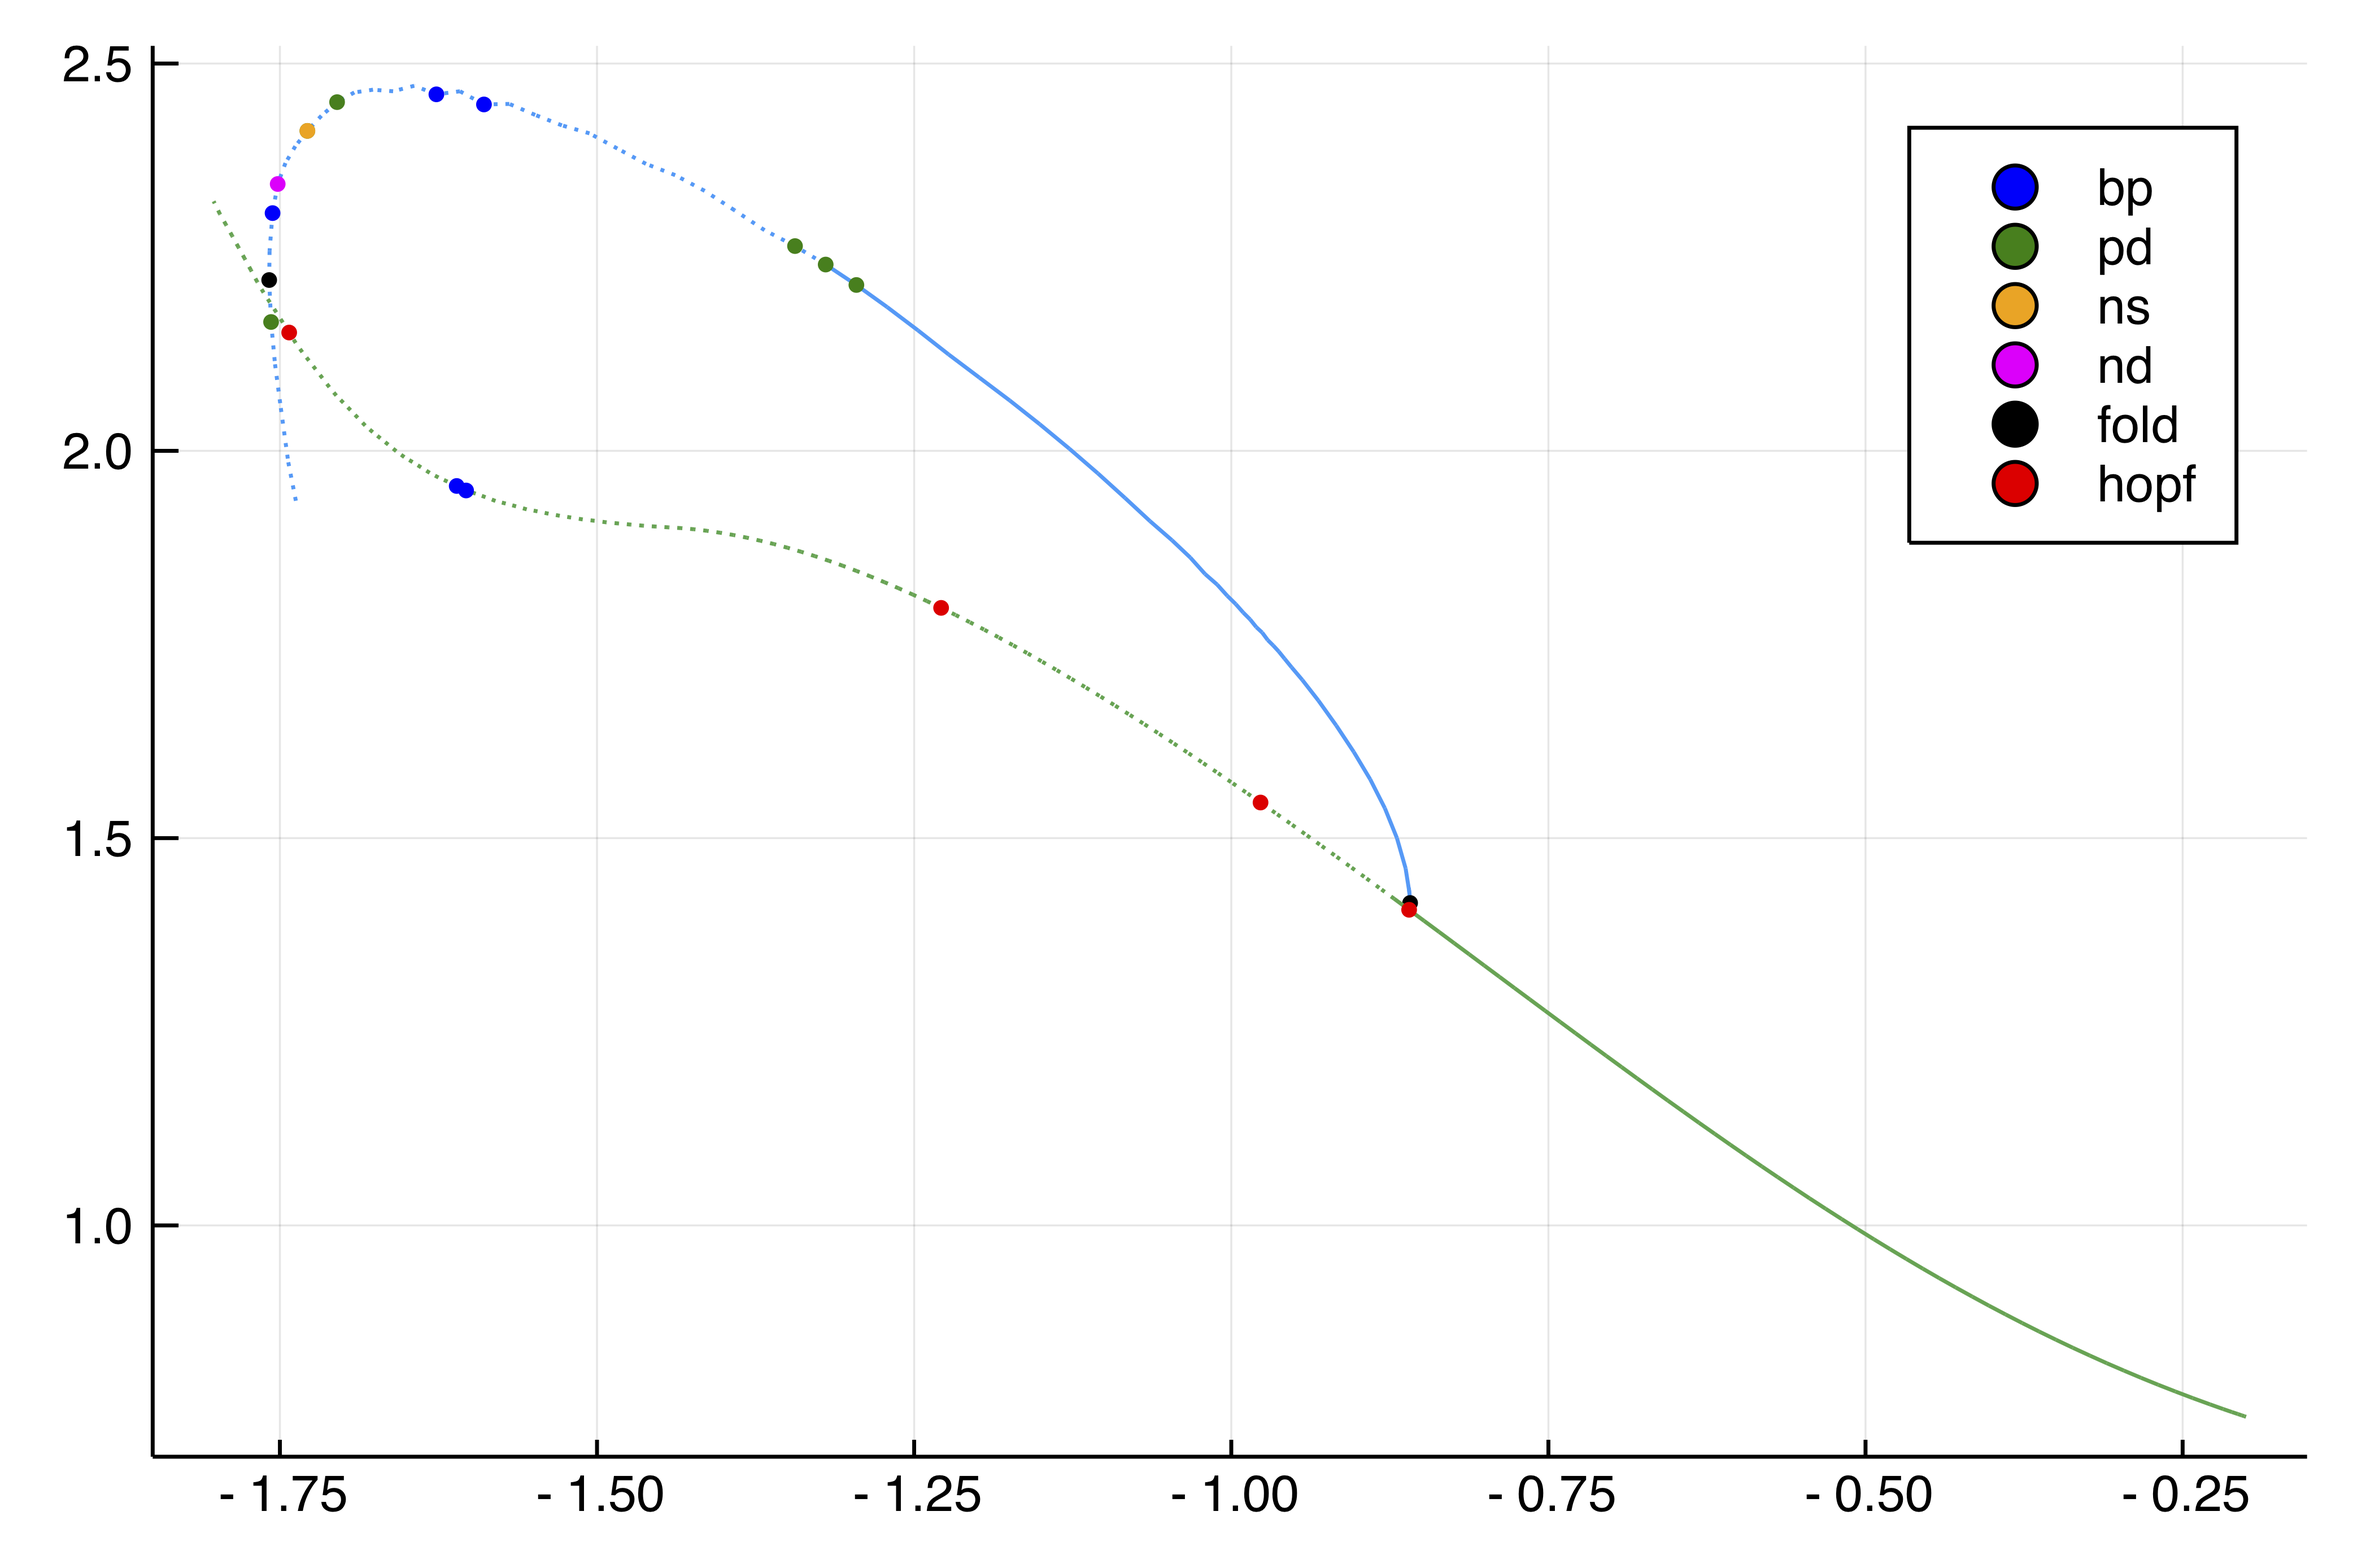
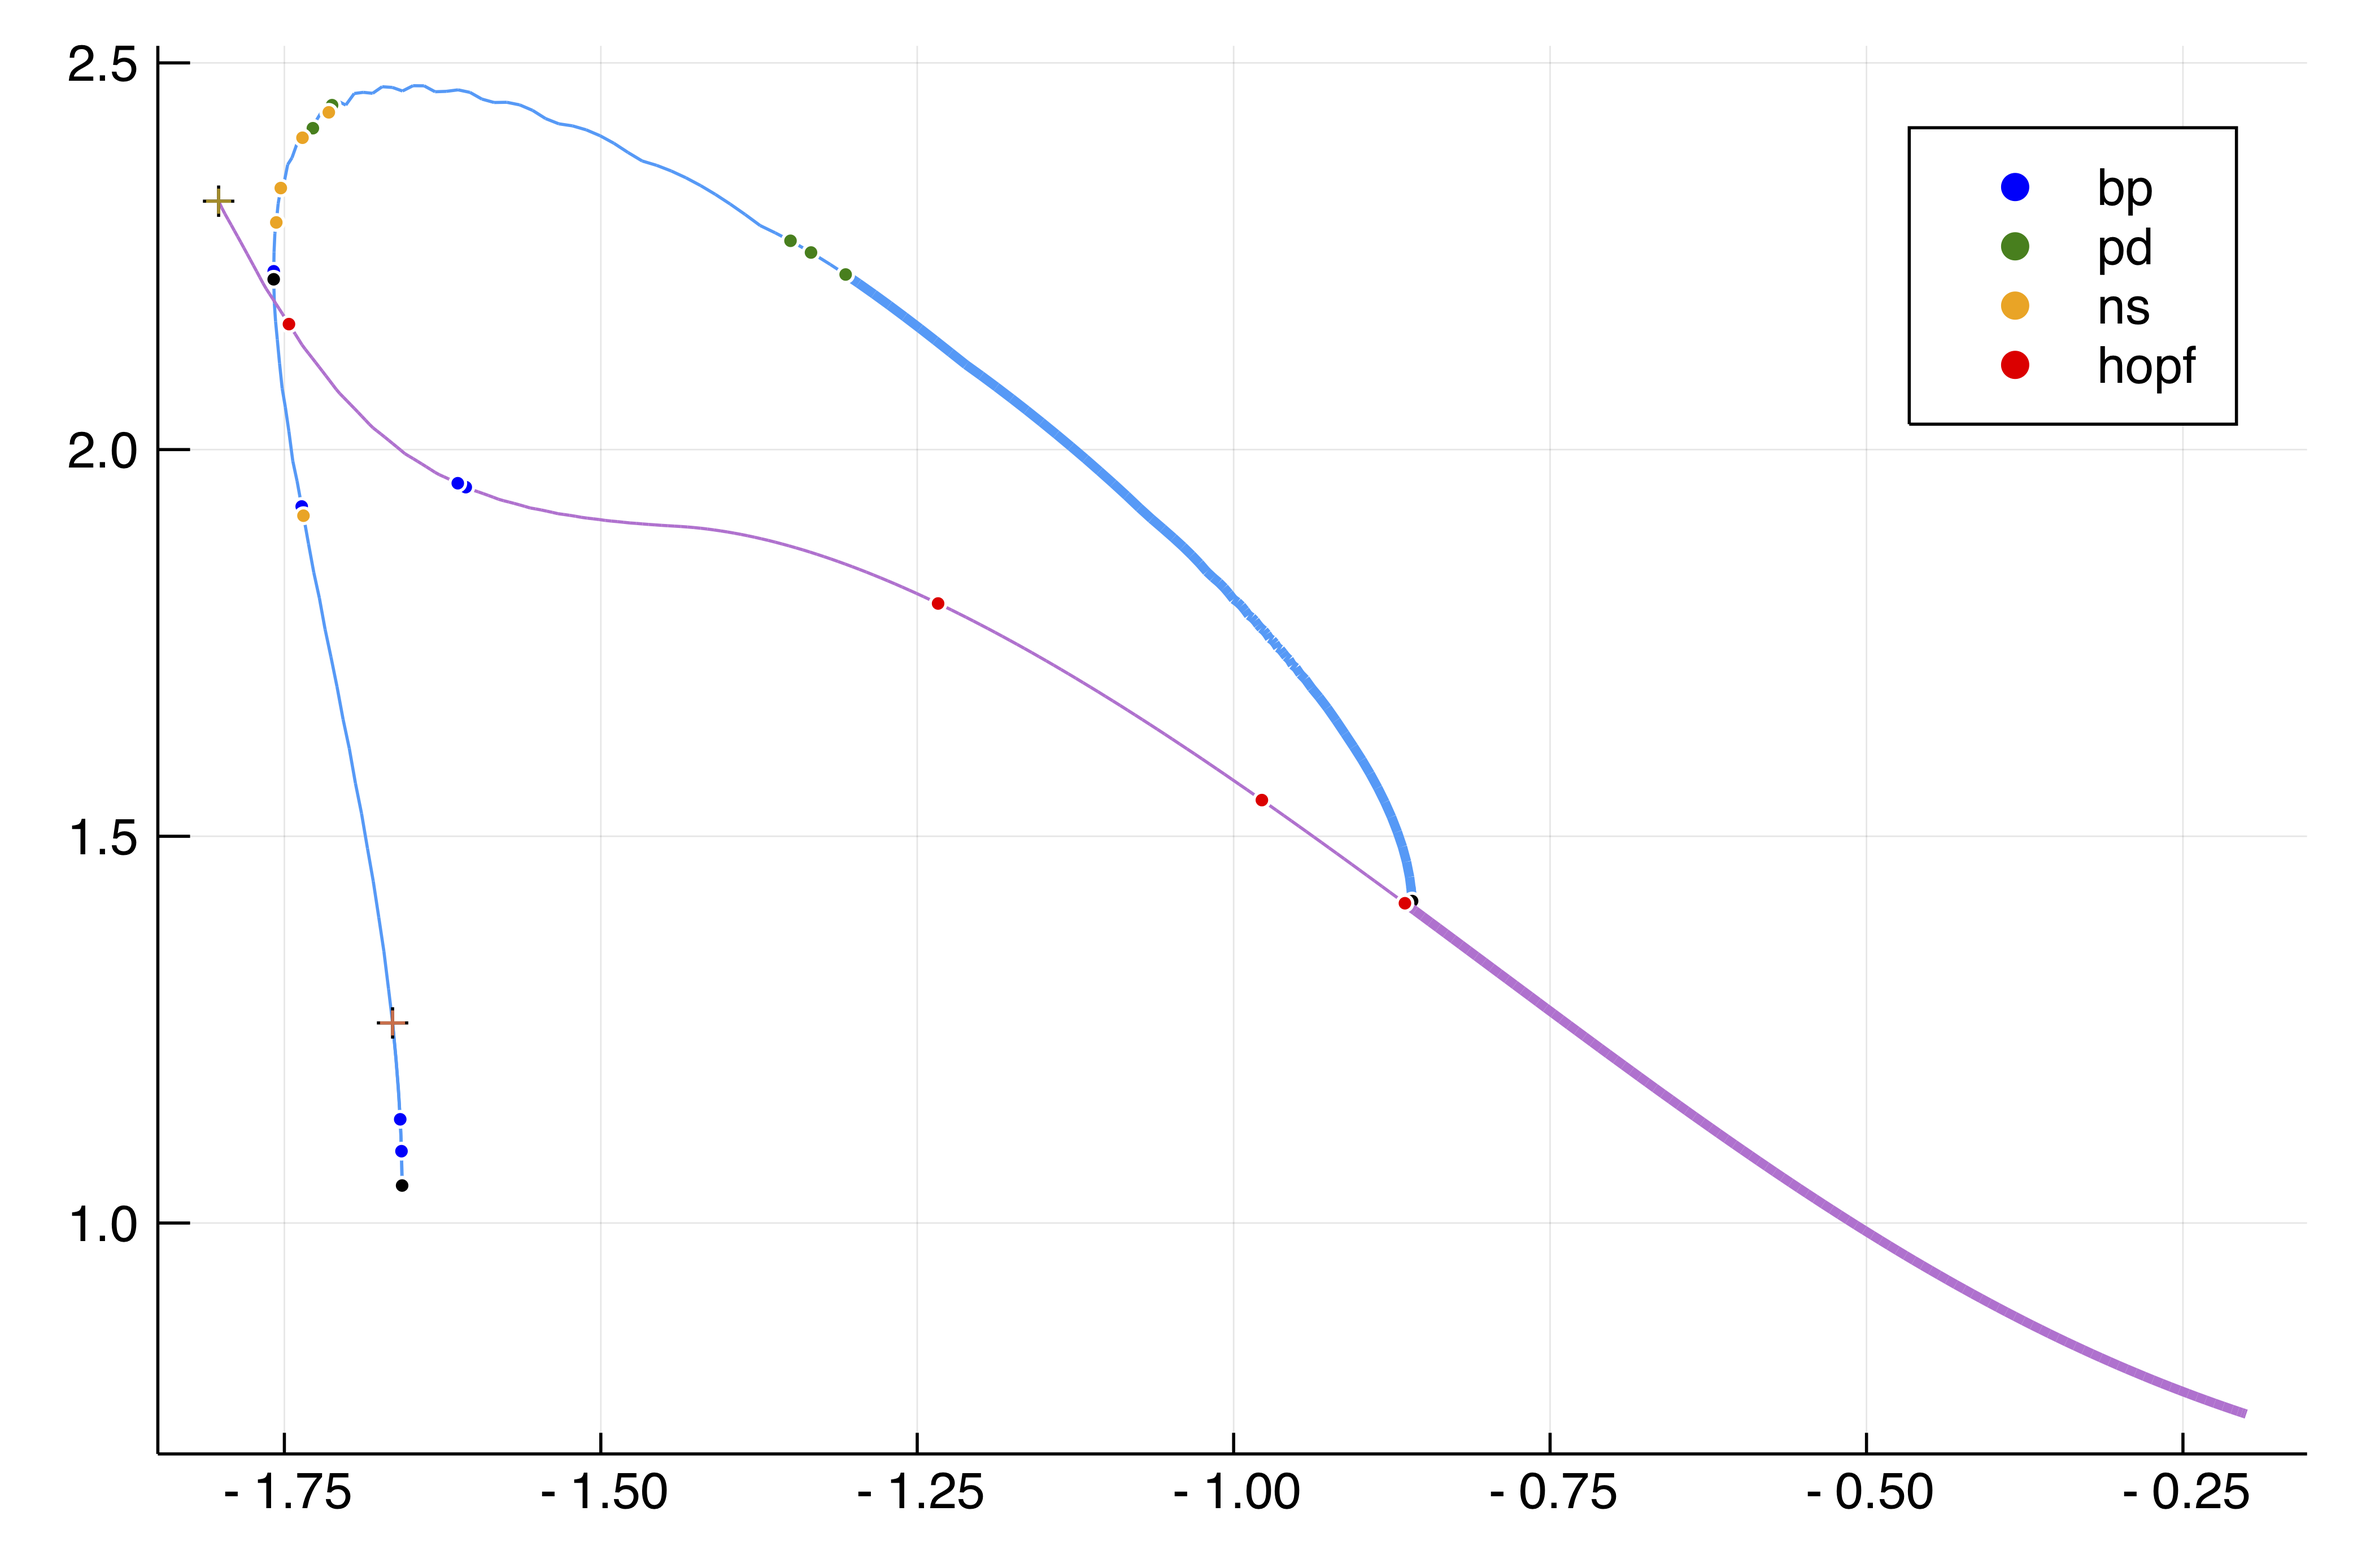
correct a bug in handling bifurcations. Improve docs.

diff --git a/docs/src/tutorialsPD.md b/docs/src/tutorialsPD.md
@@ -146,11 +146,12 @@ We can now continue this periodic orbit:
 
 ```julia
 eig = DefaultEig()
-opts_po_cont = ContinuationPar(dsmin = 0.0001, dsmax = 0.03, ds= 0.005, pMin = -1.8, maxSteps = 70, newtonOptions = (@set optn.eigsolver = eig), nev = 5, precisionStability = 1e-3, detectBifurcation = 2)
+opts_po_cont = ContinuationPar(dsmin = 0.0001, dsmax = 0.01, ds= 0.005, pMin = -1.8, maxSteps = 170, newtonOptions = (@set optn.eigsolver = eig),
+	nev = 10, precisionStability = 1e-2, detectBifurcation = 2)
 	br_po_sh, _ , _ = @time continuationPOShooting(
 		p -> probSh(@set par_br.C = p),
-		out_po_sh, -0.86,
-		opts_po_cont; verbosity = 2,
+		opts_po_cont, -0.86,
+		opts_po_cont; verbosity = 3,
 		plot = true,
 		plotSolution = (x; kwargs...) -> PALC.plotPeriodicShooting!(x[1:end-1], 1; kwargs...),
 		printSolution = (u, p) -> PALC.getMaximum(probSh(@set par_br.C = p), u; ratio = 2), normC = norminf)
@@ -160,6 +161,8 @@ We plot the result using `plotBranch(vcat(br_po_sh, br), label = "")`:
 
 ![](br_pd2.png)
 
+!!! tip "Numerical precision for stability"
+    The Floquet multipliers are not very precisely computed here using the Shooting method. We know that `1=exp(0)` should be a Floquet multiplier but this is only true here at precision ~1e-3. In order to prevent spurious bifurcation detection, there is a threshold `precisionStability` in `ContinuationPar` for declaring an unstable eigenvalue. Another way would be to use Poincaré Shooting so that this issue does not show up.
 
 # Periodic orbits from the PD point (Shooting)
 
